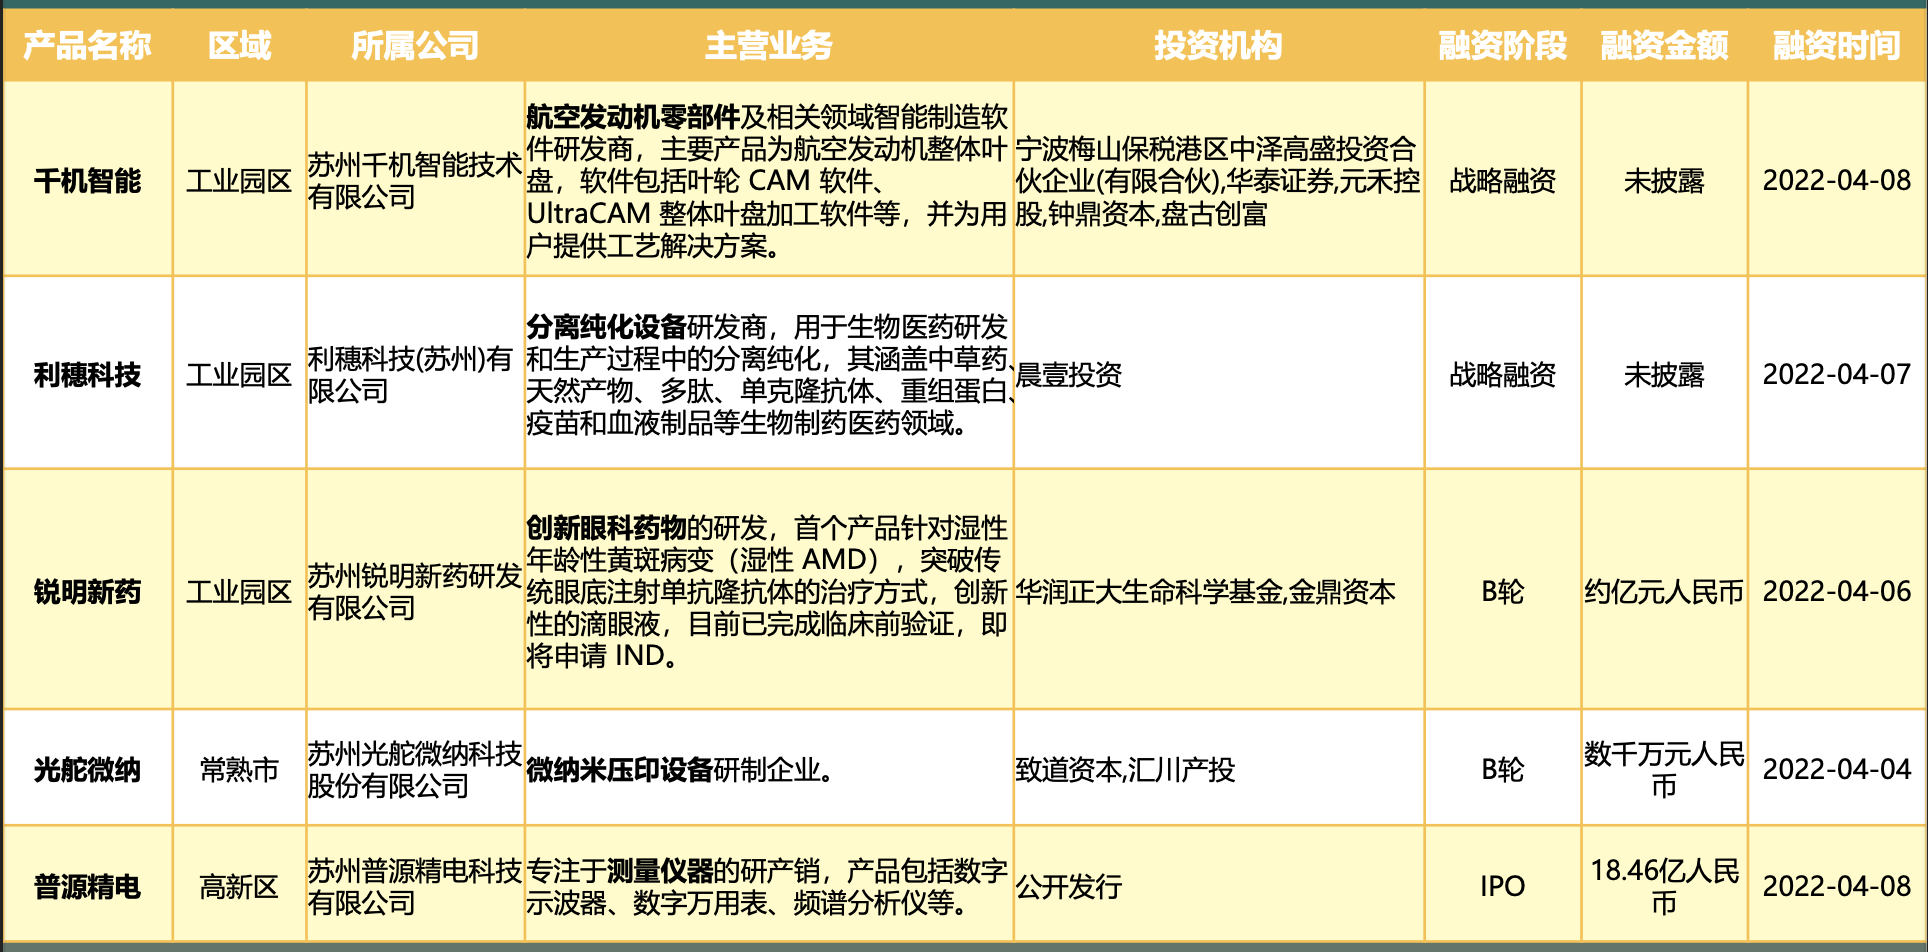
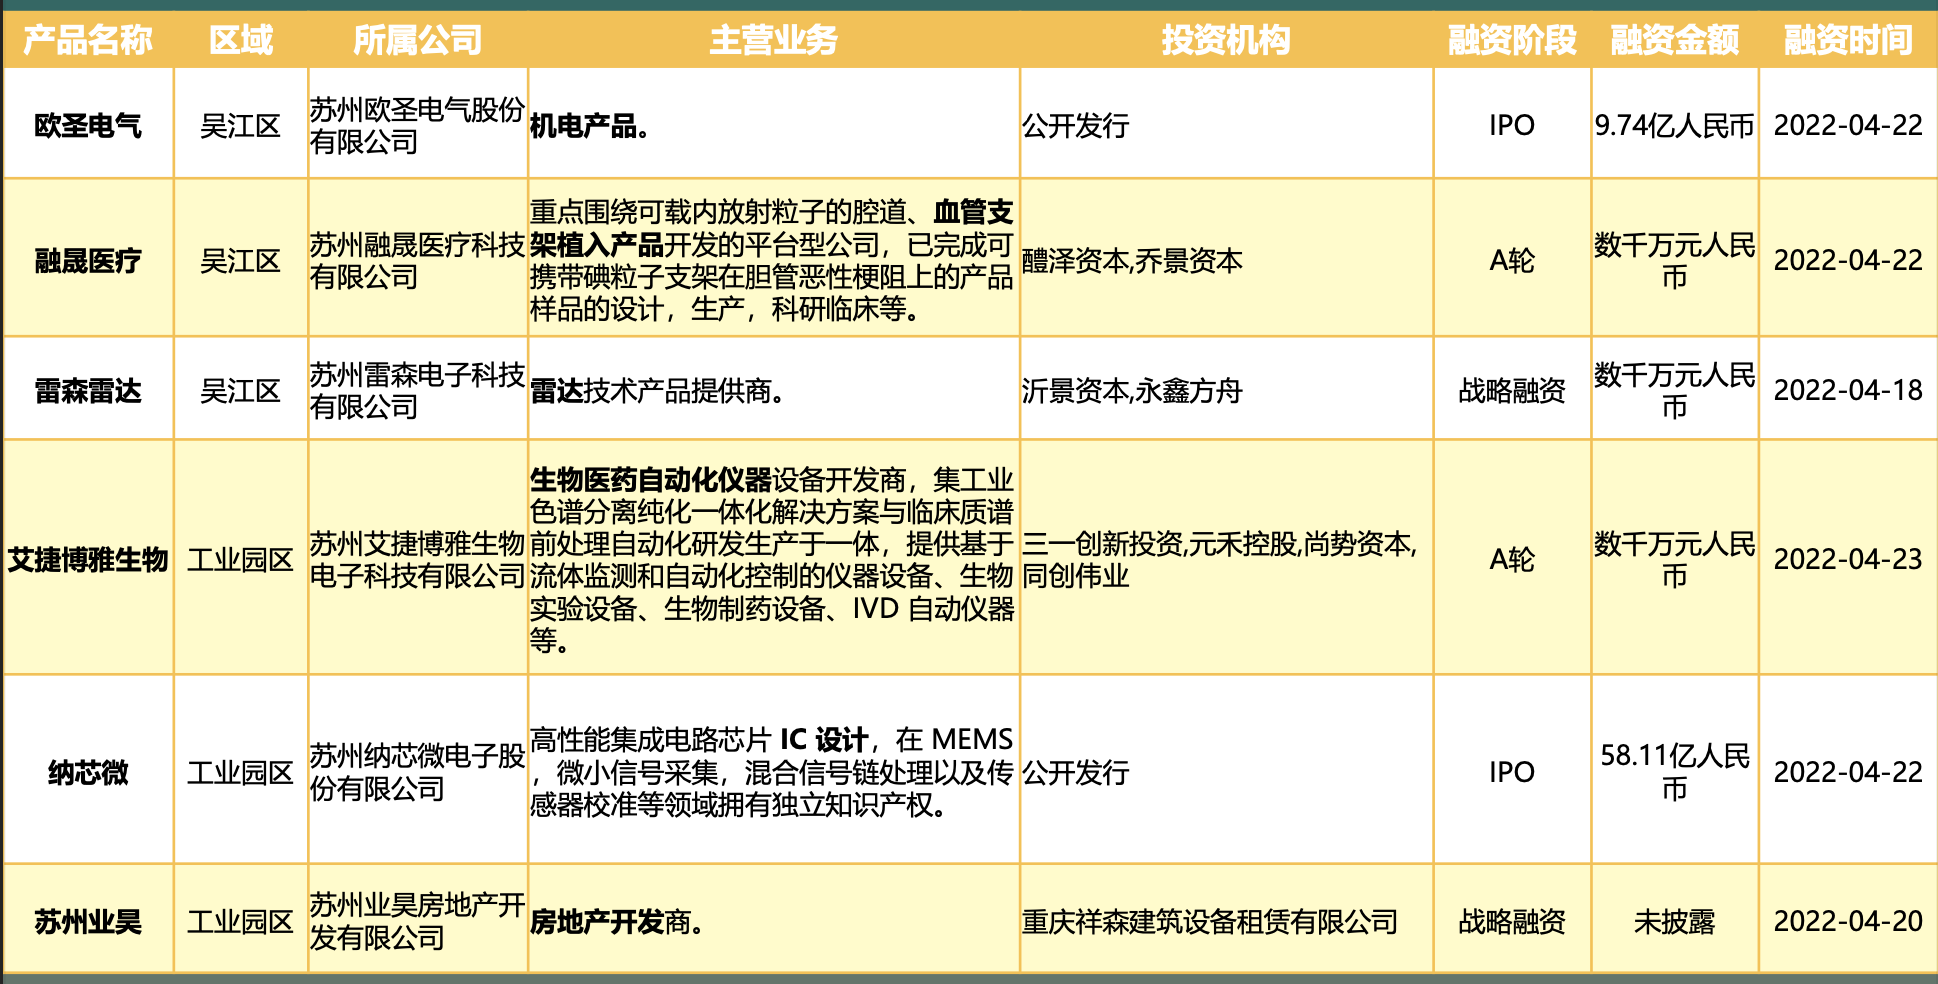
Update Fin & Inv

diff --git a/fin-inv-zh.html b/fin-inv-zh.html
@@ -114,7 +114,7 @@
         <h1 class="fh5co-heading-colored">Financing & Investment</h1>
 
         <div>by
-                <a href="author/iris.html">Iris</a> - Sun, 24 Apr 2022
+                <a href="author/iris.html">Iris</a> - Sat, 7 May 2022
         </div>
 
             <div><span>Tags: </span>
@@ -124,19 +124,19 @@
             </div>
 
         <div class="animate-box" data-animate-effect="fadeInLeft">
-            <p class="animate-box" data-animate-effect="fadeInLeft"><p>Period: 2022/04/04 - 2022/04/17 (2 weeks)    </p>
-<h4>2022/04/04 - 2022/04/10</h4>
+            <p class="animate-box" data-animate-effect="fadeInLeft"><p>Period: 2022/04/18 - 2022/05/01 (2 weeks)    </p>
+<h4>2022/04/18 - 2022/04/24</h4>
 <hr>
 <p><img alt="all_1" src="./images/all_1.png" width="100%">
 <img alt="all_2" src="./images/all_2.png" width="100%"></p>
-<p><img alt="suzhou_1" src="./images/suzhou_1.png" width="100%"></p>
-<h4>2022/04/11 - 2022/04/17</h4>
+<p><img alt="suzhou_1" src="./images/suzhou_1.png" width="100%">
+<img alt="suzhou_1" src="./images/suzhou_2.png" width="100%"></p>
+<h4>2022/04/25 - 2022/05/01</h4>
 <hr>
 <p><img alt="all_3" src="./images/all_3.png" width="100%">
 <img alt="all_4" src="./images/all_4.png" width="100%"></p>
-<p><img alt="suzhou_2" src="./images/suzhou_2.png" width="100%">
 <img alt="suzhou_3" src="./images/suzhou_3.png" width="100%"></p>
-<h2>投融资词云(2022年3月)</h2>
+<h2>投融资词云(2022 年 4 月)</h2>
 <p><img alt="词云" src="./images/词云.png" width="80%"></p></p>
         </div>
     </div>
